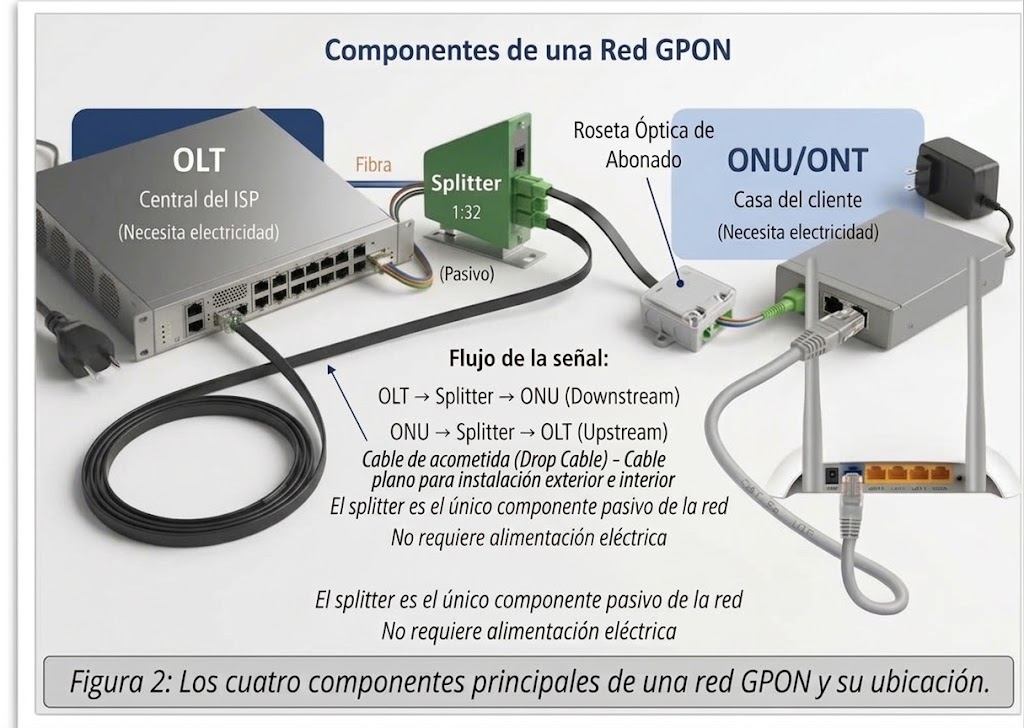
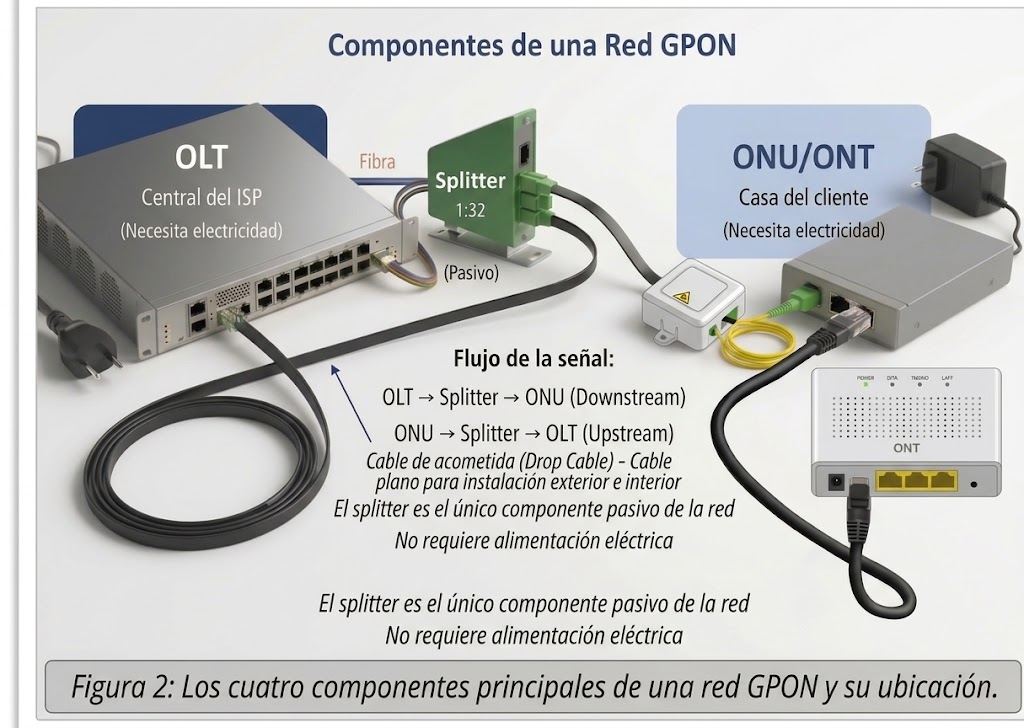
add grid

diff --git a/clases/redes12/fibra/index.html b/clases/redes12/fibra/index.html
@@ -216,10 +216,10 @@
             margin-bottom: 0.4rem;
         }
 
-        /* Grid de tarjetas de conectores */
+        /* Grid de tarjetas de conectores: 2 arriba y 2 abajo */
         .connector-grid {
             display: grid;
-            grid-template-columns: repeat(auto-fit, minmax(220px, 1fr));
+            grid-template-columns: repeat(2, 1fr);
             gap: 1rem;
             margin: 1.2rem 0;
         }
@@ -410,6 +410,10 @@
                 font-size: 1.1rem;
             }
 
+            .connector-grid {
+                grid-template-columns: 1fr;
+            }
+
             .flow-diagram {
                 flex-direction: column;
             }
@@ -532,6 +536,11 @@
                     <p>Divide la señal óptica para que una fibra pueda llegar a varios usuarios.</p>
                 </div>
                 <div class="card">
+                    <h3>Roseta Óptica (PTO)</h3>
+                    <p>Punto de terminación óptico ubicado dentro de la vivienda donde finaliza la acometida exterior
+                        (cable drop) y se realiza la conexión mediante patchcord hacia el equipo del cliente.</p>
+                </div>
+                <div class="card">
                     <h3>ONU / ONT</h3>
                     <p>Está del lado del cliente. Recibe la señal óptica y la convierte para que los equipos de la casa
                         puedan utilizarla.</p>
@@ -606,7 +615,8 @@
                     inclinada, aproximadamente 8°.</p>
                 <p>En una instalación se debe utilizar el tipo de conector especificado por los equipos y accesorios.
                     <strong>No se deben acoplar directamente conectores APC y UPC</strong>, porque la geometría no
-                    coincide y puede producir pérdidas, reflexiones o daños en las superficies de conexión.</p>
+                    coincide y puede producir pérdidas, reflexiones o daños en las superficies de conexión.
+                </p>
             </div>
         </section>
 
@@ -615,7 +625,8 @@
             <div class="card">
                 <h3>Downstream: del operador hacia el cliente</h3>
                 <p>La OLT envía información hacia las ONU/ONT. En GPON se utiliza normalmente una longitud de onda de
-                    <strong>1490 nm</strong> para downstream.</p>
+                    <strong>1490 nm</strong> para downstream.
+                </p>
             </div>
 
             <div class="card">
@@ -798,8 +809,6 @@
             const closeBtn = document.getElementById('modalClose');
 
             // Seleccionar TODAS las imágenes que deben ser clicables:
-            // - Las que están dentro de .media-container
-            // - Las que están dentro de .connector-card
             const clickableImages = document.querySelectorAll(
                 '.media-container img, .connector-card img'
             );
@@ -812,9 +821,7 @@
                 modalImg.setAttribute('src', src);
                 modalImg.setAttribute('alt', alt);
                 modal.classList.add('active');
-                // Bloquear scroll del body mientras el modal está abierto
                 document.body.style.overflow = 'hidden';
-                // Enfocar el botón de cerrar para accesibilidad
                 closeBtn.focus();
             }
 
@@ -823,28 +830,23 @@
                 modalImg.setAttribute('src', '');
                 modalImg.setAttribute('alt', '');
                 document.body.style.overflow = '';
-                // Devolver foco al elemento que abrió el modal (si es posible)
                 if (lastFocusedElement) {
                     lastFocusedElement.focus();
                 }
             }
 
-            // Guardar el elemento que tenía el foco antes de abrir el modal
             let lastFocusedElement = null;
 
             clickableImages.forEach(function (img) {
-                // Añadir atributos de accesibilidad
                 img.setAttribute('tabindex', '0');
                 img.setAttribute('role', 'button');
                 img.setAttribute('aria-label', 'Ampliar imagen: ' + (img.alt || 'imagen'));
 
-                // Click con ratón
                 img.addEventListener('click', function (e) {
                     lastFocusedElement = this;
                     openModal(this);
                 });
 
-                // Acceso por teclado (Enter o Space)
                 img.addEventListener('keydown', function (e) {
                     if (e.key === 'Enter' || e.key === ' ') {
                         e.preventDefault();
@@ -854,17 +856,14 @@
                 });
             });
 
-            // Cerrar al hacer clic en el botón
             closeBtn.addEventListener('click', closeModal);
 
-            // Cerrar al hacer clic fuera de la imagen (en el fondo del modal)
             modal.addEventListener('click', function (e) {
                 if (e.target === modal) {
                     closeModal();
                 }
             });
 
-            // Cerrar con la tecla Escape
             document.addEventListener('keydown', function (e) {
                 if (e.key === 'Escape' && modal.classList.contains('active')) {
                     closeModal();
@@ -872,7 +871,6 @@
             });
         })();
     </script>
-
 </body>
 
 </html>
